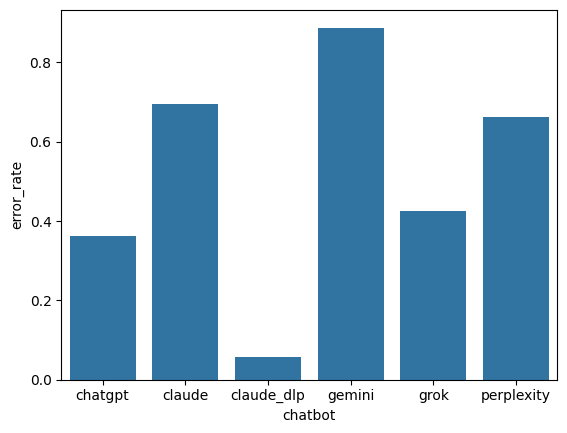
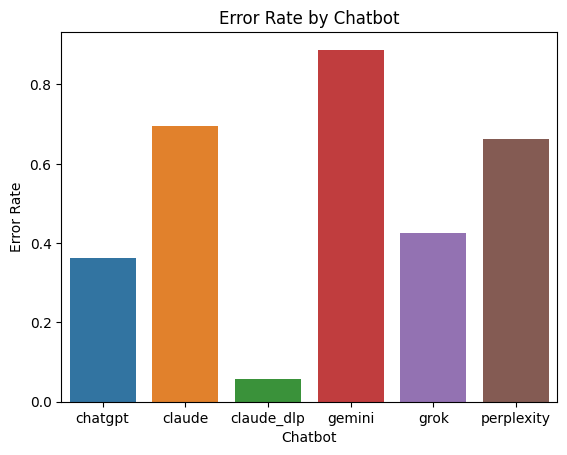
add better vis

diff --git a/main.py b/main.py
@@ -36,11 +36,14 @@ if __name__ == "__main__":
     # print(get_records_for_chatbot(dataset))
     # questions = extract_random_questions(dataset, 0.1)
 
-    
+
     error_rate = get_error_rate(dataset).reset_index()
     error_rate.columns = ['chatbot', 'error_rate']
     error_rate['error_rate'] = 1-error_rate['error_rate']
-    sns.barplot(x='chatbot', y='error_rate', data=error_rate)
+    sns.barplot(x='chatbot', y='error_rate', data=error_rate, hue='chatbot')
+    plt.title('Error Rate by Chatbot')
+    plt.xlabel('Chatbot')
+    plt.ylabel('Error Rate')
     plt.savefig('error_rate.png', bbox_inches='tight')
     plt.close()
 
